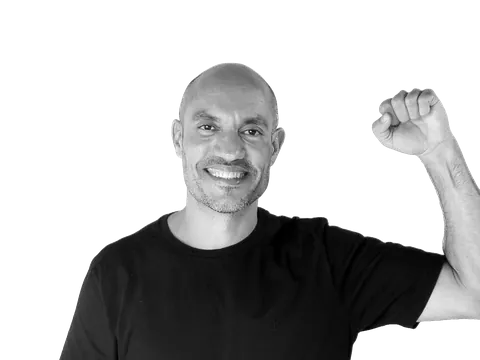
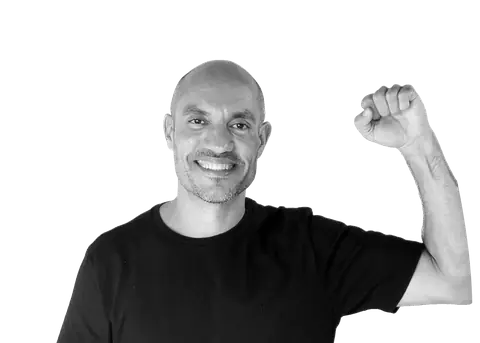
Reconstrói a ponta do cotovelo cortada no recorte do hero
A foto de origem foi enquadrada com o cotovelo do braço erguido na
borda direita do arquivo. No recorte com fundo transparente isso virava
um corte reto de 327 px (21,8% da altura) contra o campo vermelho, e a
versão laboratório expunha esse corte porque o object-fit:contain deixa
folga lateral: 211 px de vermelho à direita da borda amputada em
1920 px, 119 px em 1600 px, 87 px em 1366 px.

Retoque de pixel, sem IA generativa: extensão do contorno por 40 px com
silhueta em arco, pele esticada a partir das colunas da borda, queda de
luz de 16% até a silhueta e 1 px de feather no alfa, igual ao resto do
recorte. Canvas 1200x1500 -> 1260x1500.

- assets/img/hero-rec-{480,800,1200} e hero-mobile-rec-*: regerados
- versao-2/index.html: altura intrínseca 1000 -> 952 (nova proporção)
- index.html: altura intrínseca dos cartões corrigida

Qualidade WebP recalibrada (q82/q78/q74) para não pesar mais que antes:
216.092 B -> 203.582 B no conjunto, -5%, apesar do canvas 5% maior.
hero-rec-800 é a imagem LCP do hero: 39.296 B -> 36.354 B.

A versão 1 não foi tocada: lá a foto é retangular e o braço sai da
moldura naturalmente, sem leitura de amputação.

diff --git a/versao-2/index.html b/versao-2/index.html
@@ -67,7 +67,7 @@
     <div class="hero__sol" aria-hidden="true"></div>
     <div class="hero__orbita" aria-hidden="true"><i></i></div>
     <div class="hero__reticula" aria-hidden="true"></div>
-    <picture class="hero__img"><source media="(max-width: 1023px)" type="image/webp" srcset="../assets/img/hero-mobile-rec-480.webp 480w, ../assets/img/hero-mobile-rec-800.webp 800w, ../assets/img/hero-mobile-rec-1200.webp 1200w" sizes="100vw"><source type="image/webp" srcset="../assets/img/hero-rec-480.webp 480w, ../assets/img/hero-rec-800.webp 800w, ../assets/img/hero-rec-1200.webp 1200w" sizes="(max-width: 1023px) 100vw, 50vw"><img src="../assets/img/hero-rec-800.webp" alt="Fernando Viana sorri e ergue o punho fechado, de camiseta preta." width="800" height="1000" fetchpriority="high" decoding="async"></picture>
+    <picture class="hero__img"><source media="(max-width: 1023px)" type="image/webp" srcset="../assets/img/hero-mobile-rec-480.webp 480w, ../assets/img/hero-mobile-rec-800.webp 800w, ../assets/img/hero-mobile-rec-1200.webp 1200w" sizes="100vw"><source type="image/webp" srcset="../assets/img/hero-rec-480.webp 480w, ../assets/img/hero-rec-800.webp 800w, ../assets/img/hero-rec-1200.webp 1200w" sizes="(max-width: 1023px) 100vw, 50vw"><img src="../assets/img/hero-rec-800.webp" alt="Fernando Viana sorri e ergue o punho fechado, de camiseta preta." width="800" height="952" fetchpriority="high" decoding="async"></picture>
     <div class="hero__voto"><span class="hero__voto-numero">5000</span><span class="hero__voto-legenda">PSOL / Goiás</span></div>
   </div>
   <div class="hero__cunha" aria-hidden="true"></div>

diff --git a/index.html b/index.html
@@ -106,7 +106,7 @@ h1 .ponto{color:var(--vermelho)}
         <span class="cartao__tag">Versão 1</span>
         <picture>
           <source type="image/webp" srcset="assets/img/hero-480.webp 480w, assets/img/hero-800.webp 800w, assets/img/hero-1200.webp 1200w" sizes="(max-width:700px) 100vw, 50vw">
-          <img src="assets/img/hero-800.jpg" alt="Prévia da versão 1: Fernando Viana ergue o punho fechado." width="800" height="600" loading="lazy" decoding="async">
+          <img src="assets/img/hero-800.jpg" alt="Prévia da versão 1: Fernando Viana ergue o punho fechado." width="800" height="1000" loading="lazy" decoding="async">
         </picture>
       </figure>
       <div class="cartao__corpo">
@@ -126,7 +126,7 @@ h1 .ponto{color:var(--vermelho)}
         <span class="cartao__tag">Versão 2</span>
         <picture>
           <source type="image/webp" srcset="assets/img/hero-rec-480.webp 480w, assets/img/hero-rec-800.webp 800w, assets/img/hero-rec-1200.webp 1200w" sizes="(max-width:700px) 100vw, 50vw">
-          <img src="assets/img/hero-rec-800.webp" alt="Prévia da versão 2: Fernando Viana recortado sobre composição gráfica." width="800" height="600" loading="lazy" decoding="async">
+          <img src="assets/img/hero-rec-800.webp" alt="Prévia da versão 2: Fernando Viana recortado sobre composição gráfica." width="800" height="952" loading="lazy" decoding="async">
         </picture>
       </figure>
       <div class="cartao__corpo">
